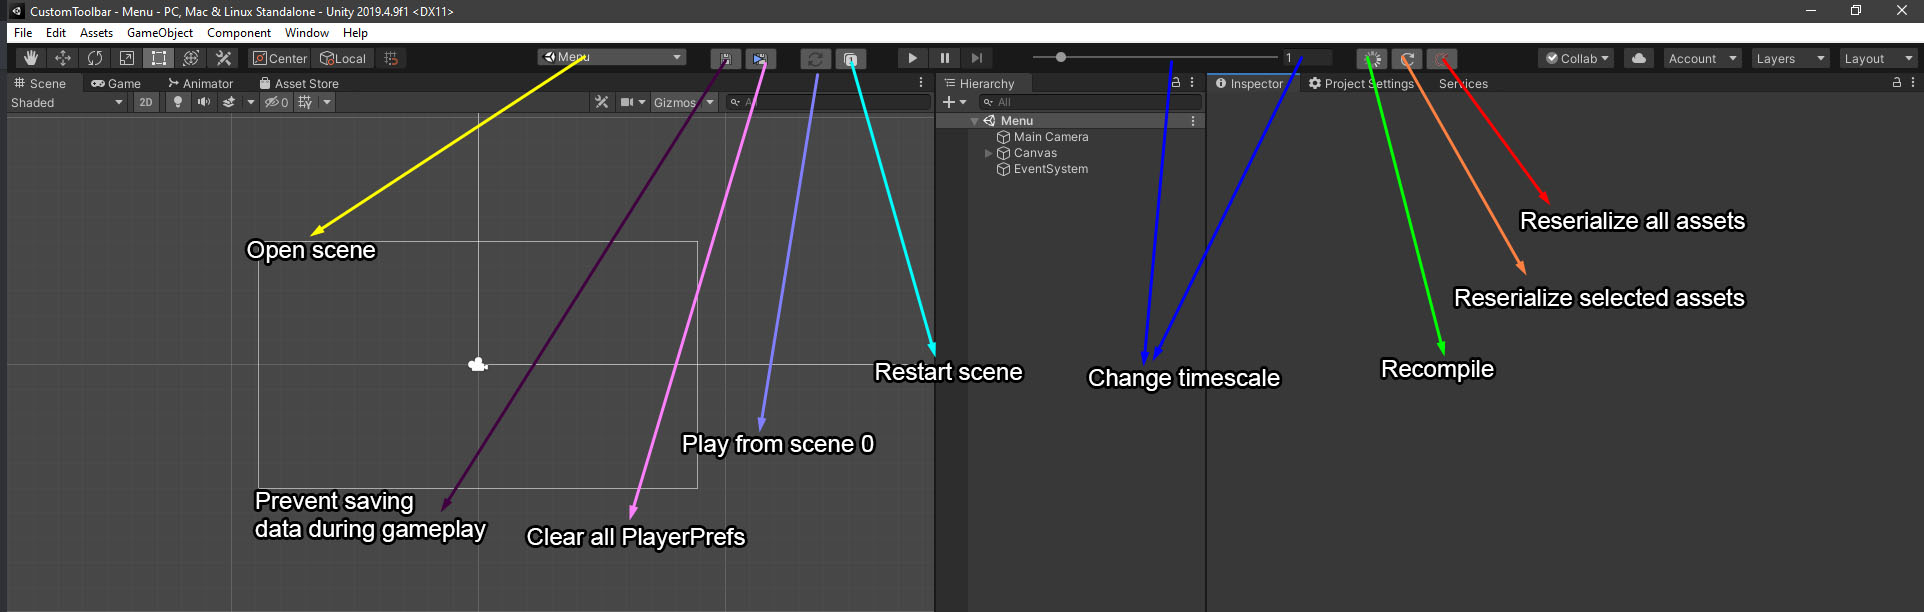
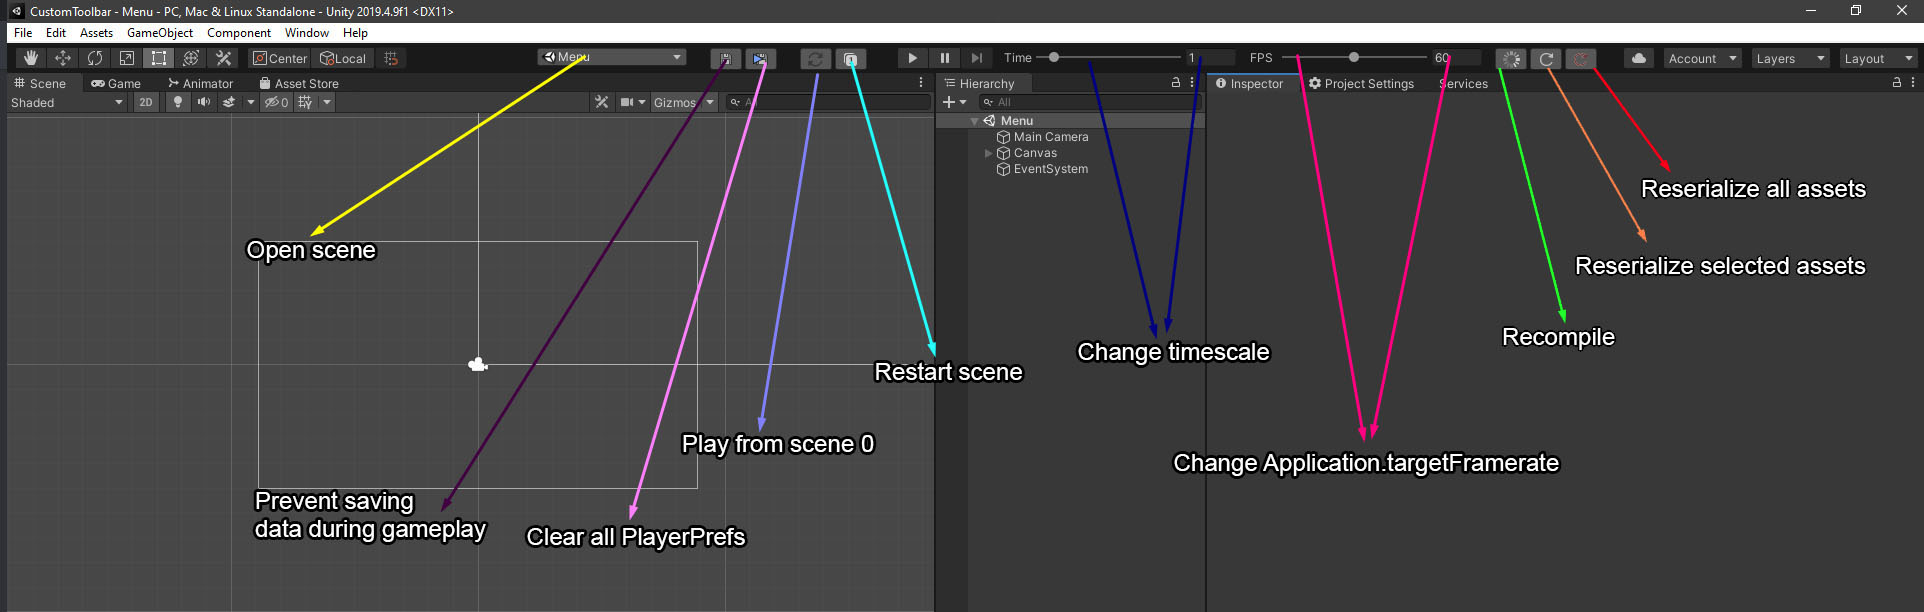
Update docs

diff --git a/README.md b/README.md
@@ -59,6 +59,11 @@ I usually test my games by changing timescale.
 ![image](_readme/timescale.jpg)
 ____________
 
+Also it usefull to test your game with different framerates, to be sure that it is framerate-independent.
+
+![image](_readme/FPS.jpg)
+____________
+
 Button to recompile scripts. Usefull when you working on splitting code into .asmdef
 
 ![image](_readme/btnRecompile.jpg)
